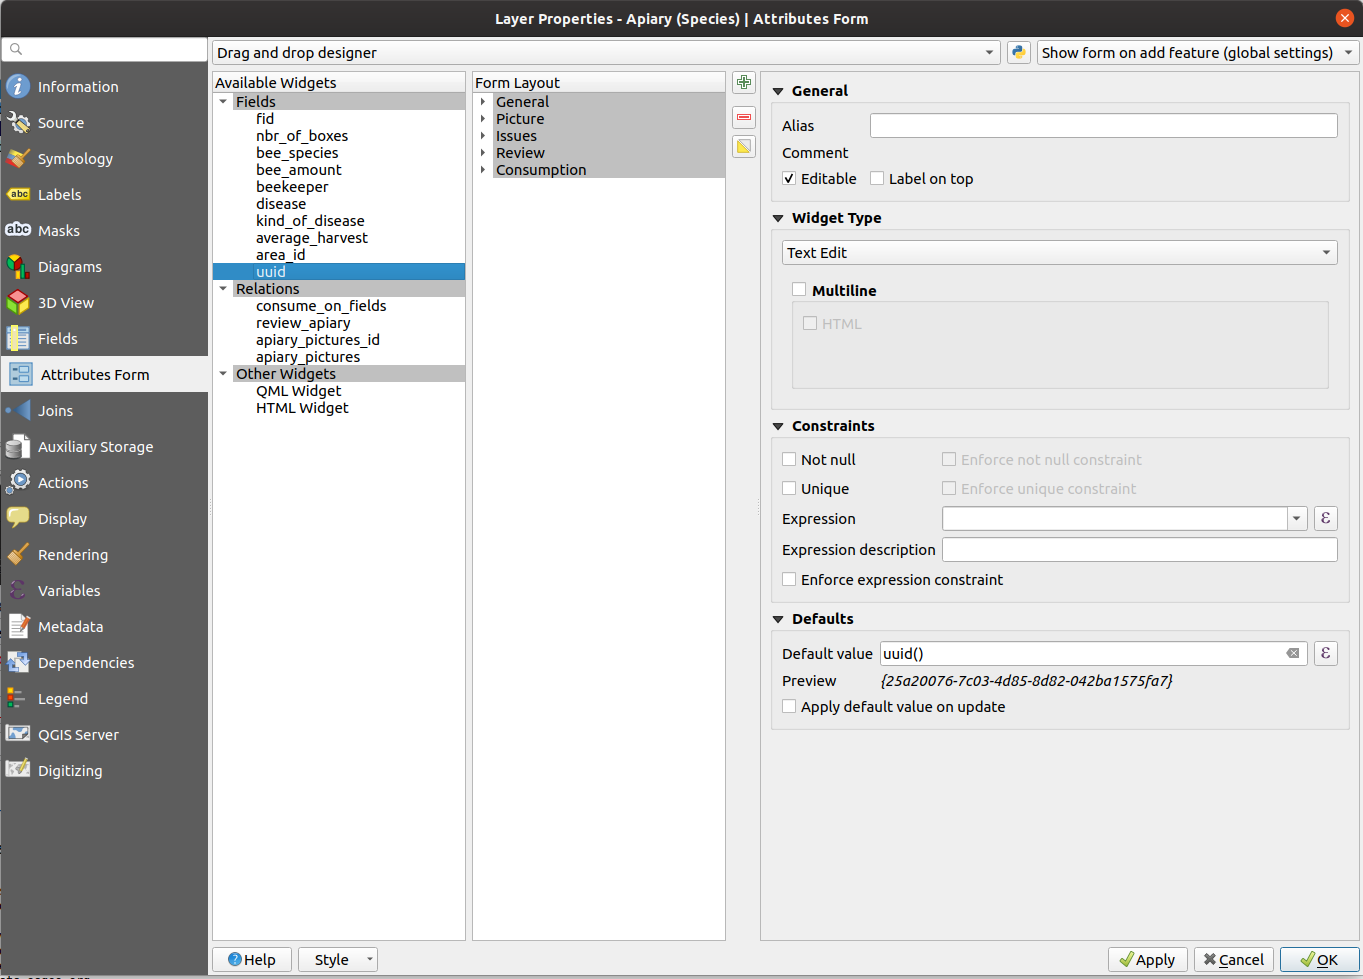
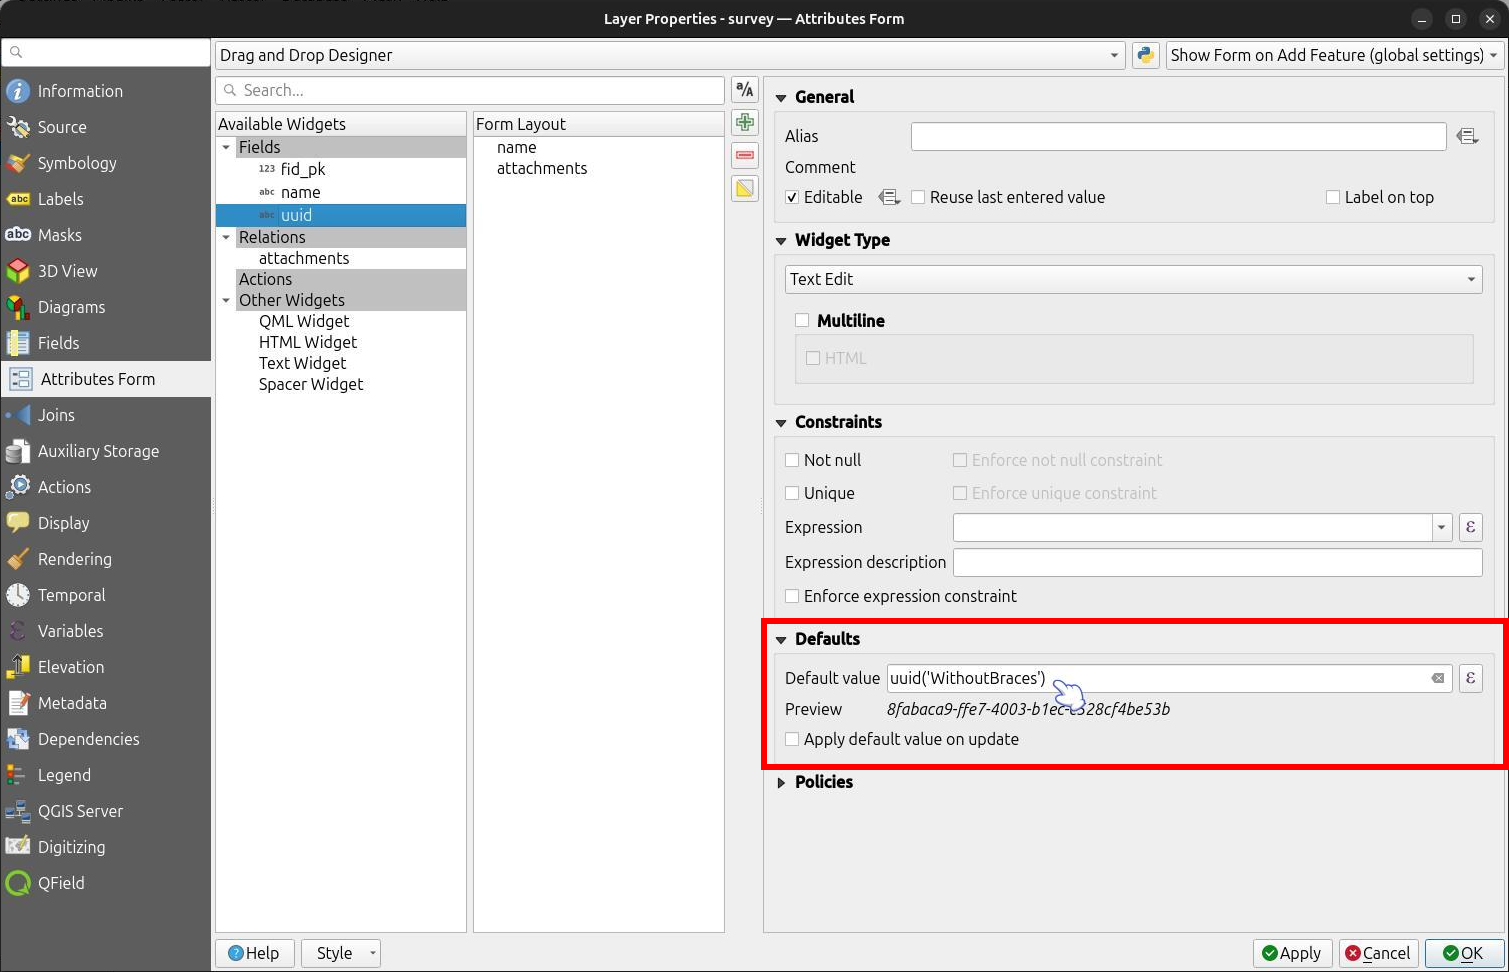
Updating the picutures section to latest images

Changed region(s): [[0.0, 0.0, 1.0, 1.0], [0.8936, 0.1852, 0.9552, 0.216]]

diff --git a/documentation/how-to/project-setup/pictures.en.md b/documentation/how-to/project-setup/pictures.en.md
@@ -25,7 +25,7 @@ A relation to a second layer needs to be set in the QGIS properties so that when
 
 !!! Workflow
 
-    1. Create two tables following the style as shown below.
+    1. As example create two tables following the style as shown below.
     One table where the features are stored and one with a list of pictures.
 
         ***Apiary:***
@@ -55,7 +55,7 @@ Create a relation with:
 - `apiary_id` Referencing field
 - `strength` Composition
 
-!![Relations](../../assets/images/add-1-n-pictures-relations.png "")
+!![Relations](../../assets/images/add-1-n-pictures-relations.png)
 
 ### Attribute Form configuration
 
@@ -65,26 +65,26 @@ For the apiary_picture layer, you will have to change the widget type to *Attach
 
 !!! Workflow
 
-    **Apiary**
+    **Parent layer**
 
     1. Direct to *Properties* > *Attribute Form*
     2. For the uuid field choose between the *Text Edit* or *UUID Generator* widget.
     3. Set the default value to `uuid('WithoutBraces')`.
-    4. Hide it from the view as it should not be edited by the user.
+    4. (optional) Hide it from the view as it should not be edited by the user.
 
-    !![widgets](../../assets/images/add-1-n-pictures-widgets_hive.png "")
+    !![widgets](../../assets/images/add-1-n-pictures-widgets_hive.png)
 
     Set the relation widget to *many to one relation* and add the relation to the form
 
-    !![widgets](../../assets/images/add-1-n-pictures-widgets_hive2.png "")
+    !![widgets](../../assets/images/add-1-n-pictures-widgets_hive2.png)
 
-    **Apiary_picture**
+    **Child layer**
 
     1. Direct to *Properties* > *Attribute Form*
-    2. Set the widget type of the field `path` to *Attachment*
+    2. Set the widget type to *Attachment* on the field that will save the picture paths.
     3. Add it to the form layout.
 
-    !![widgets](../../assets/images/add-1-n-pictures-widgets_picture.png "")
+    !![widgets](../../assets/images/add-1-n-pictures-widgets_picture.png)
 
 ## Drawing and sketching
 
@@ -104,7 +104,7 @@ If you are not familiar with that app folder, its location is shown at the botto
 
 Templates shipped alongside projects as well as the QField app folder will be shown when users choose "Draw a sketch" by pressing the 3-dotted menu *(⋮)* of the attachment widget.
 
-!![picture path](../../assets/images/drawing_templates.png "")
+!![picture path](../../assets/images/drawing_templates.png)
 
 ## Geotagging
 :material-tablet: Fieldwork